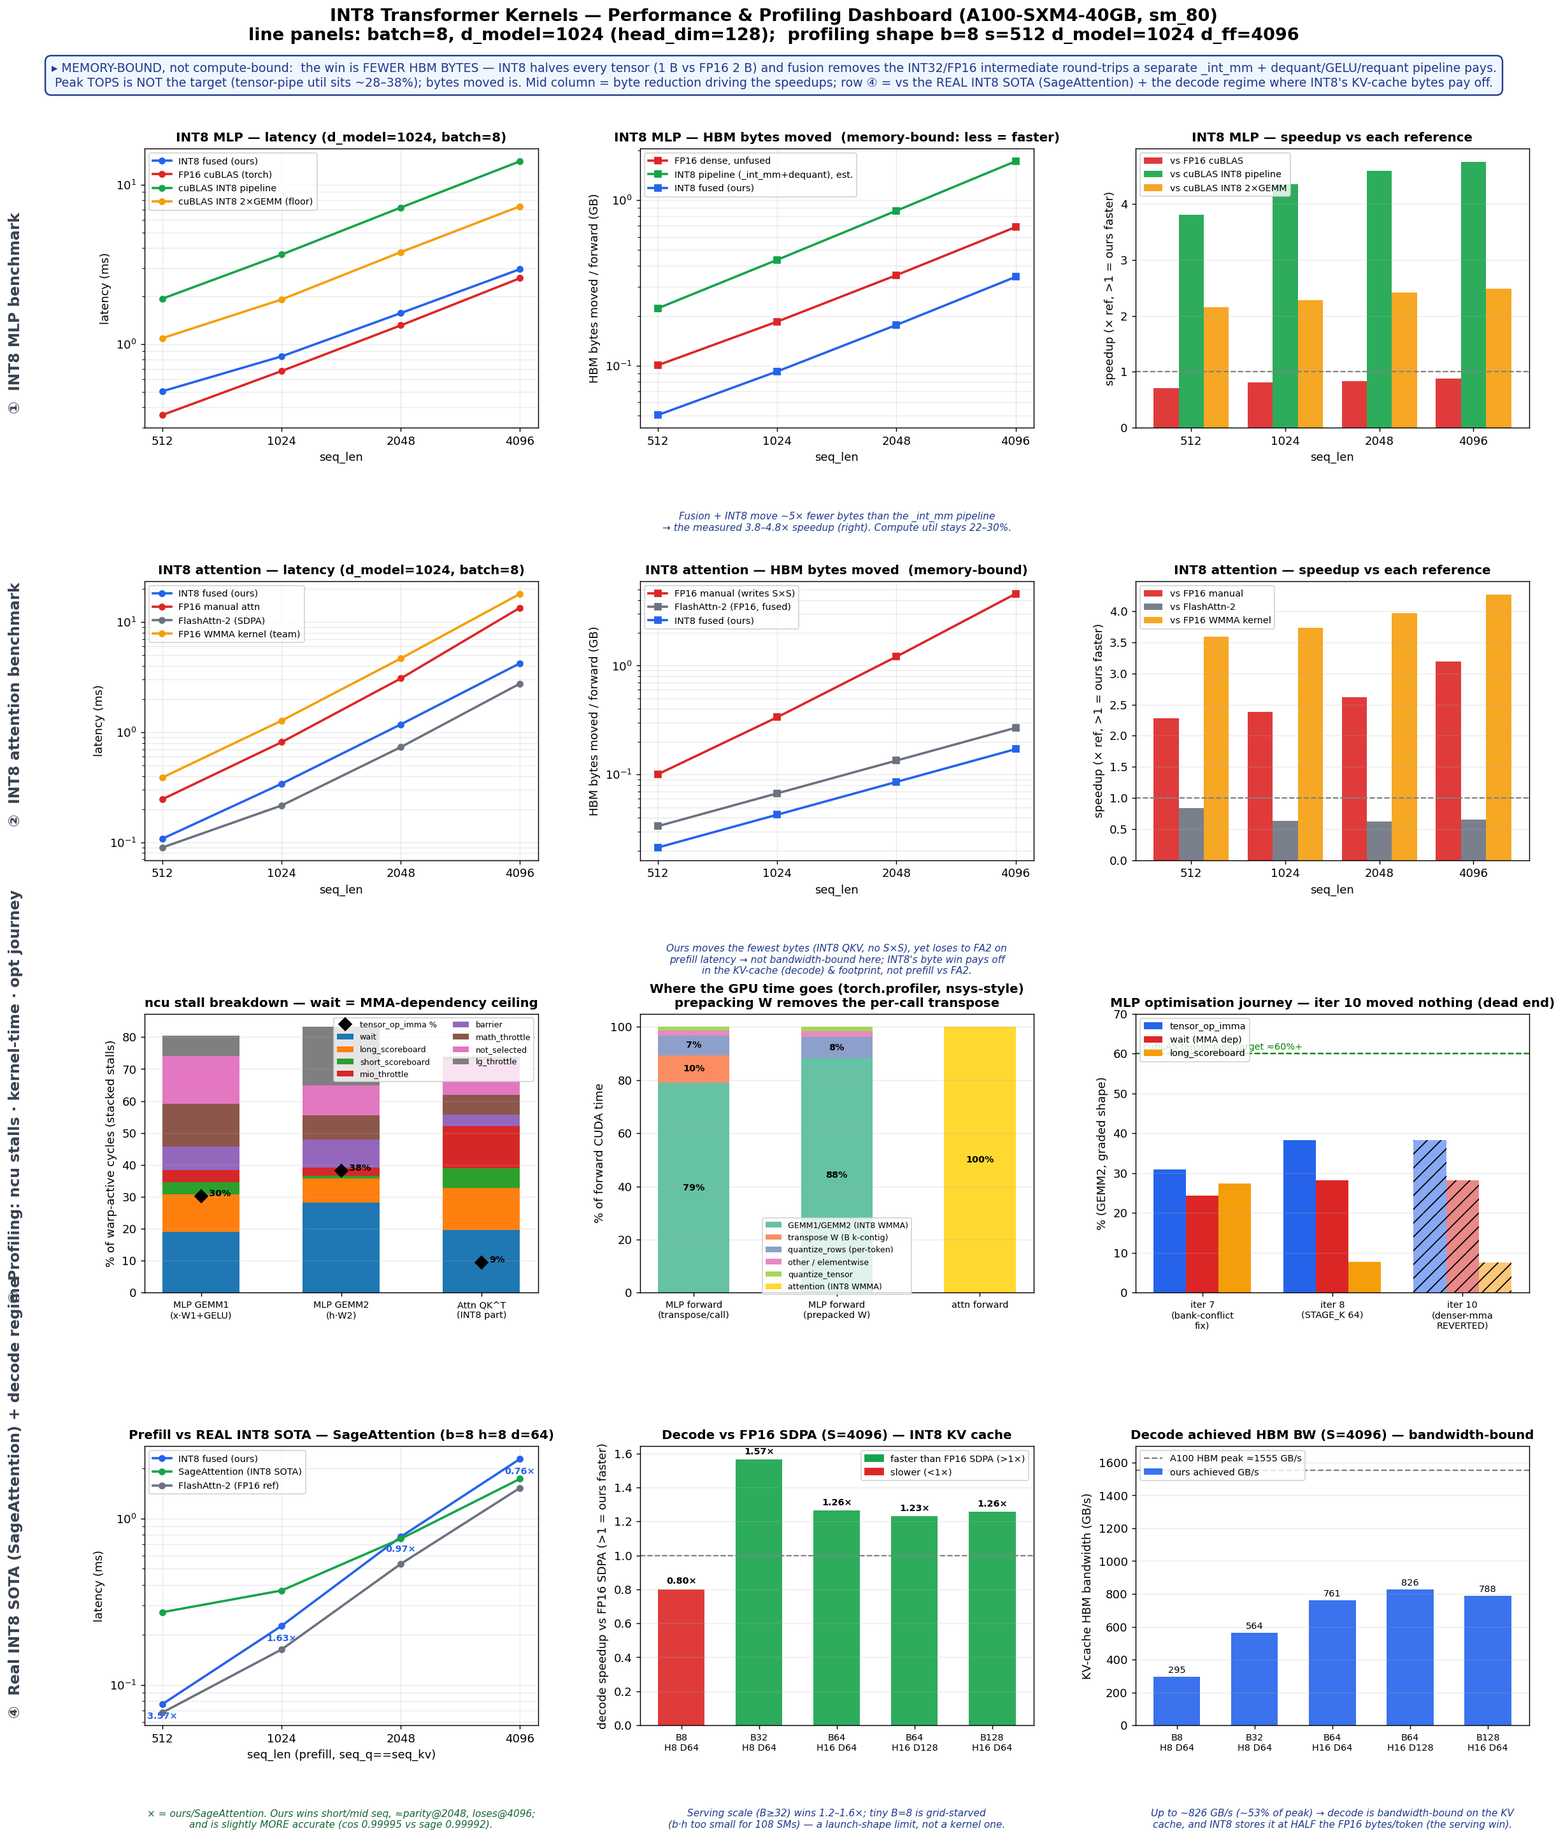
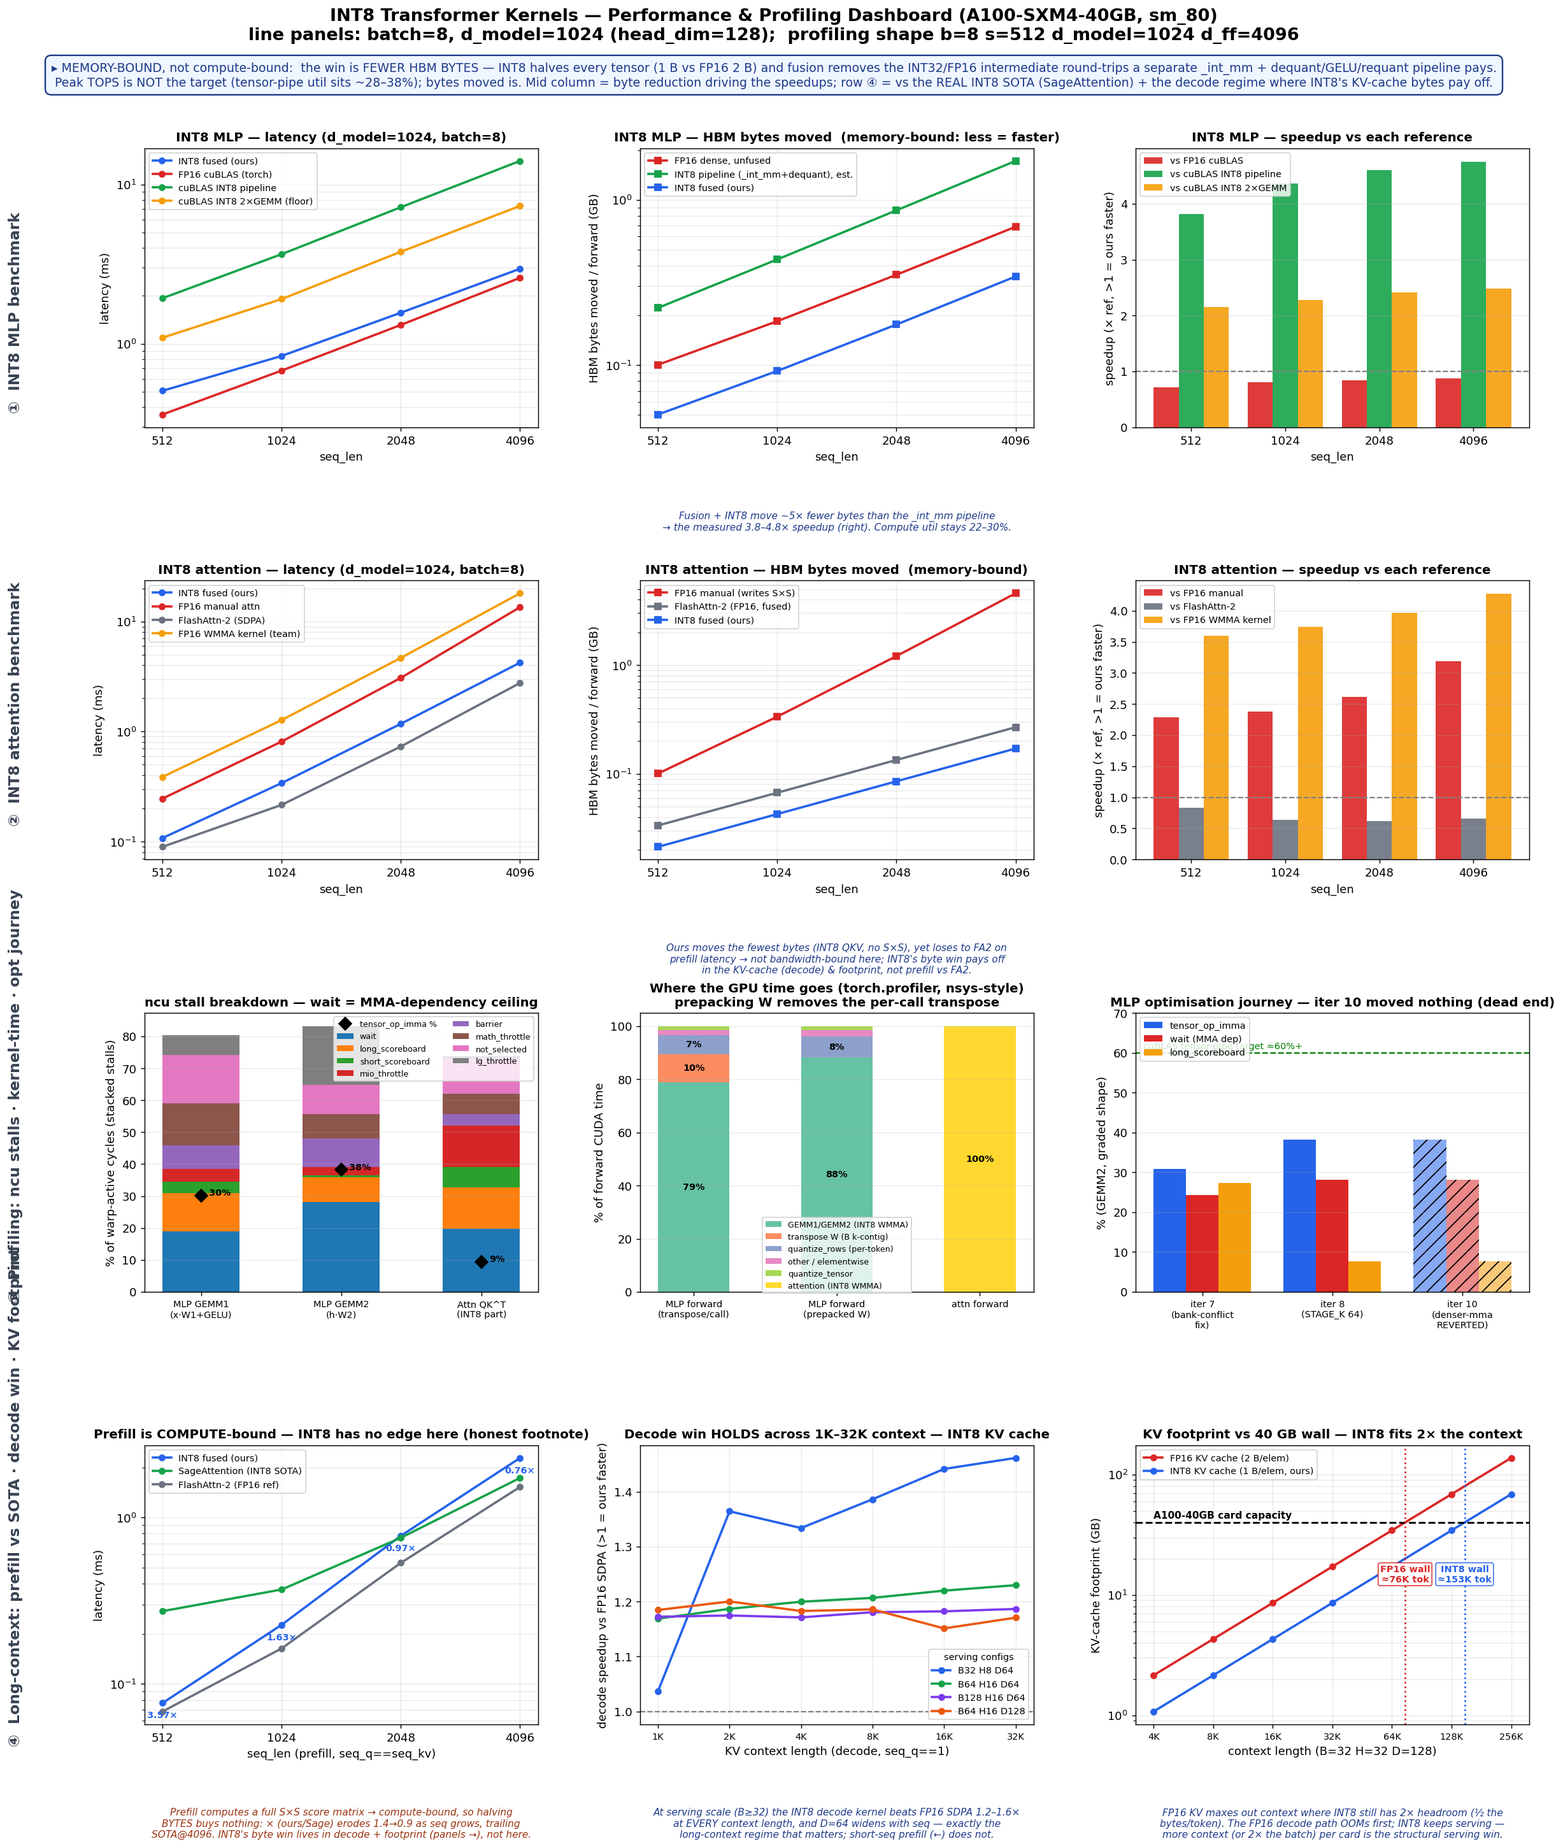
dashboard: reframe row 4 around the long-context story
Everything that matters today is long-sequence; short-seq prefill wins
are not the value prop. Reframe row 4 accordingly:

- bench_attn_decode.py: extend decode grid to 1K-32K and make run()
  OOM-safe (quantize-then-free fp16 inputs so the INT8 path runs where
  holding fp16 K,V would not even fit; FP16 reference rebuilt + guarded).
- panel_decode_speedup: bars@S=4096 -> one line per serving config across
  1K-32K, showing the 1.2-1.6x win HOLDS (D=64 widens) as context grows.
- panel_sota_prefill: retitled/refootnoted as the honest note that prefill
  is COMPUTE-bound, so INT8's byte advantage buys nothing there (ours/Sage
  erodes 1.4->0.9, trailing SOTA@4096).
- new panel_kv_footprint: KV cache GB vs context vs the 40 GB card wall —
  FP16 maxes ~76K tok, INT8 ~153K (half the bytes/token => 2x context or
  batch per card), turning the FP16 OOM into the structural serving win.

diff --git a/make_dashboard.py b/make_dashboard.py
@@ -314,7 +314,9 @@ def panel_journey(ax):
 
 
 def panel_sota_prefill(ax, rows):
-    """Prefill latency vs the REAL INT8 SOTA peer (SageAttention), not FP16."""
+    """Prefill latency vs the REAL INT8 SOTA peer (SageAttention) — the HONEST
+    footnote: prefill is compute-bound, so INT8's byte advantage does NOT help
+    here; we trail SOTA as seq grows. The INT8 win is decode/footprint (→)."""
     if not rows:
         ax.text(0.5, 0.5, "no attn_sota.csv\n(run bench_attn_sota.py)",
                 ha="center", va="center"); ax.set_axis_off(); return
@@ -336,74 +338,98 @@ def panel_sota_prefill(ax, rows):
     ax.set_xscale("log", base=2); ax.set_yscale("log", base=10)
     ax.set_xticks(x); ax.set_xticklabels(x)
     ax.set_xlabel("seq_len (prefill, seq_q==seq_kv)"); ax.set_ylabel("latency (ms)")
-    ax.set_title("Prefill vs REAL INT8 SOTA — SageAttention (b=8 h=8 d=64)",
+    ax.set_title("Prefill is COMPUTE-bound — INT8 has no edge here (honest footnote)",
                  fontweight="bold", fontsize=11)
     ax.grid(True, which="both", alpha=0.25); ax.legend(fontsize=8, loc="upper left")
     ax.text(0.5, -0.30,
-            "× = ours/SageAttention. Ours wins short/mid seq, ≈parity@2048, "
-            "loses@4096;\nand is slightly MORE accurate (cos 0.99995 vs sage 0.99992).",
+            "Prefill computes a full S×S score matrix → compute-bound, so halving\n"
+            "BYTES buys nothing: × (ours/Sage) erodes 1.4→0.9 as seq grows, trailing\n"
+            "SOTA@4096. INT8's byte win lives in decode + footprint (panels →), not here.",
             transform=ax.transAxes, fontsize=8.5, ha="center", va="top",
-            color="#166534", style="italic")
+            color="#9A3412", style="italic")
 
 
-def _decode_at(rows, S):
-    sub = [r for r in rows if int(r["S"]) == S]
-    sub.sort(key=lambda r: (int(r["B"]), int(r["H"]), int(r["D"])))
-    return sub
+# serving-scale decode configs (skip grid-starved B8); one line per config.
+DECODE_CFGS = [(32, 8, 64), (64, 16, 64), (128, 16, 64), (64, 16, 128)]
+_DECODE_COLORS = ["#2563EB", "#16A34A", "#7C3AED", "#EA580C"]
 
 
-def _cfg_label(r):
-    return f"B{int(r['B'])}\nH{int(r['H'])} D{int(r['D'])}"
-
-
-def panel_decode_speedup(ax, rows, S):
+def panel_decode_speedup(ax, rows):
+    """Decode speedup vs FP16 SDPA across the long-context grid (1K–32K), one
+    line per serving config — the win HOLDS (D=64 even grows) as context grows,
+    because decode re-streams the whole KV cache every token (bandwidth-bound)."""
     if not rows:
         ax.text(0.5, 0.5, "no attn_decode.csv\n(run bench_attn_decode.py)",
                 ha="center", va="center"); ax.set_axis_off(); return
-    sub = _decode_at(rows, S)
-    x = np.arange(len(sub))
-    y = [r["speedup_vs_sdpa"] for r in sub]
-    colors = [C_SOTA if v >= 1.0 else C_FP16 for v in y]
-    ax.bar(x, y, 0.6, color=colors, alpha=0.9)
-    for xi, v in zip(x, y):
-        ax.text(xi, v + 0.02, f"{v:.2f}×", ha="center", va="bottom",
-                fontsize=8, fontweight="bold")
+    for (B, H, D), color in zip(DECODE_CFGS, _DECODE_COLORS):
+        sub = [r for r in rows if int(r["B"]) == B and int(r["H"]) == H
+               and int(r["D"]) == D and isinstance(r.get("speedup_vs_sdpa"), float)]
+        sub.sort(key=lambda r: int(r["S"]))
+        if not sub:
+            continue
+        x = [int(r["S"]) for r in sub]
+        y = [r["speedup_vs_sdpa"] for r in sub]
+        ax.plot(x, y, marker="o", color=color, lw=2, ms=5,
+                label=f"B{B} H{H} D{D}")
     ax.axhline(1.0, color="gray", ls="--", lw=1.2)
-    ax.set_xticks(x); ax.set_xticklabels([_cfg_label(r) for r in sub], fontsize=8)
+    ax.set_xscale("log", base=2)
+    allx = sorted({int(r["S"]) for r in rows})
+    ax.set_xticks(allx); ax.set_xticklabels([f"{s//1024}K" if s >= 1024 else s for s in allx],
+                                            fontsize=8)
+    ax.set_xlabel("KV context length (decode, seq_q==1)")
     ax.set_ylabel("decode speedup vs FP16 SDPA (>1 = ours faster)")
-    ax.set_title(f"Decode vs FP16 SDPA (S={S}) — INT8 KV cache",
+    ax.set_title("Decode win HOLDS across 1K–32K context — INT8 KV cache",
                  fontweight="bold", fontsize=11)
-    ax.legend(handles=[Patch(color=C_SOTA, label="faster than FP16 SDPA (>1×)"),
-                       Patch(color=C_FP16, label="slower (<1×)")],
-              fontsize=8, loc="upper right")
-    ax.grid(axis="y", alpha=0.25)
+    ax.legend(fontsize=8, loc="lower right", title="serving configs", title_fontsize=8)
+    ax.grid(True, which="both", alpha=0.25)
     ax.text(0.5, -0.30,
-            "Serving scale (B≥32) wins 1.2–1.6×; tiny B=8 is grid-starved\n"
-            "(b·h too small for 108 SMs) — a launch-shape limit, not a kernel one.",
+            "At serving scale (B≥32) the INT8 decode kernel beats FP16 SDPA 1.2–1.6×\n"
+            "at EVERY context length, and D=64 widens with seq — exactly the\n"
+            "long-context regime that matters; short-seq prefill (←) does not.",
             transform=ax.transAxes, fontsize=8.5, ha="center", va="top",
             color="#1E3A8A", style="italic")
 
 
-def panel_decode_bw(ax, rows, S):
-    if not rows:
-        ax.text(0.5, 0.5, "no attn_decode.csv", ha="center", va="center")
-        ax.set_axis_off(); return
-    sub = _decode_at(rows, S)
-    x = np.arange(len(sub))
-    y = [r["ours_gbps"] for r in sub]
-    ax.bar(x, y, 0.6, color=C_OURS, alpha=0.9, label="ours achieved GB/s")
-    ax.axhline(1555, color="gray", ls="--", lw=1.3, label="A100 HBM peak ≈1555 GB/s")
-    for xi, v in zip(x, y):
-        ax.text(xi, v + 12, f"{v:.0f}", ha="center", va="bottom", fontsize=8)
-    ax.set_xticks(x); ax.set_xticklabels([_cfg_label(r) for r in sub], fontsize=8)
-    ax.set_ylabel("KV-cache HBM bandwidth (GB/s)")
-    ax.set_ylim(0, 1700)
-    ax.set_title(f"Decode achieved HBM BW (S={S}) — bandwidth-bound",
+# KV-footprint config: a 7–13B-class model shard at serving batch. The point is
+# structural (½ the bytes/token ⇒ 2× context per card), independent of the kernel.
+KV_B, KV_H, KV_D = 32, 32, 128
+CARD_GB = 40.0
+
+
+def panel_kv_footprint(ax):
+    """KV-cache footprint vs context length, INT8 vs FP16, against the 40 GB
+    card wall. Half the bytes/token ⇒ INT8 fits ~2× the context (or batch) — the
+    OOM the FP16 decode path hits at long context turns into a capacity win."""
+    seqs = [2 ** k for k in range(12, 19)]            # 4K .. 256K
+    per_tok = 2 * KV_B * KV_H * KV_D / 1e9            # K+V, GB per token per byte/elem
+    fp16 = [per_tok * 2 * S for S in seqs]
+    int8 = [per_tok * 1 * S for S in seqs]
+    ax.plot(seqs, fp16, marker="o", color=C_FP16, lw=2, ms=5,
+            label="FP16 KV cache (2 B/elem)")
+    ax.plot(seqs, int8, marker="o", color=C_OURS, lw=2, ms=5,
+            label="INT8 KV cache (1 B/elem, ours)")
+    ax.axhline(CARD_GB, color="black", ls="--", lw=1.6)
+    ax.text(seqs[0], CARD_GB * 1.08, "A100-40GB card capacity",
+            fontsize=8.5, color="black", fontweight="bold")
+    max_fp16 = CARD_GB / (per_tok * 2)               # tokens that fit
+    max_int8 = CARD_GB / (per_tok * 1)
+    for xv, col, tag in [(max_fp16, C_FP16, f"FP16 wall\n≈{max_fp16/1000:.0f}K tok"),
+                         (max_int8, C_OURS, f"INT8 wall\n≈{max_int8/1000:.0f}K tok")]:
+        ax.axvline(xv, color=col, ls=":", lw=1.5)
+        ax.text(xv, CARD_GB * 0.32, tag, color=col, fontsize=8,
+                fontweight="bold", ha="center",
+                bbox=dict(boxstyle="round,pad=0.2", fc="white", ec=col, lw=0.8))
+    ax.set_xscale("log", base=2); ax.set_yscale("log", base=10)
+    ax.set_xticks(seqs); ax.set_xticklabels([f"{s//1024}K" for s in seqs], fontsize=8)
+    ax.set_xlabel(f"context length (B={KV_B} H={KV_H} D={KV_D})")
+    ax.set_ylabel("KV-cache footprint (GB)")
+    ax.set_title("KV footprint vs 40 GB wall — INT8 fits 2× the context",
                  fontweight="bold", fontsize=11)
-    ax.legend(fontsize=8, loc="upper left"); ax.grid(axis="y", alpha=0.25)
+    ax.legend(fontsize=8, loc="upper left"); ax.grid(True, which="both", alpha=0.25)
     ax.text(0.5, -0.30,
-            "Up to ~826 GB/s (~53% of peak) → decode is bandwidth-bound on the KV\n"
-            "cache, and INT8 stores it at HALF the FP16 bytes/token (the serving win).",
+            "FP16 KV maxes out context where INT8 still has 2× headroom (½ the\n"
+            "bytes/token). The FP16 decode path OOMs first; INT8 keeps serving —\n"
+            "more context (or 2× the batch) per card is the structural serving win.",
             transform=ax.transAxes, fontsize=8.5, ha="center", va="top",
             color="#1E3A8A", style="italic")
 
@@ -466,10 +492,11 @@ def main():
     panel_kerneltime(fig.add_subplot(gs[2, 1]))
     panel_journey(fig.add_subplot(gs[2, 2]))
 
-    # Row 4 — REAL INT8 SOTA (SageAttention) + decode regime
+    # Row 4 — the long-context story: prefill (compute-bound, honest footnote) →
+    # decode win holds across 1K–32K → KV footprint vs the 40 GB card wall.
     panel_sota_prefill(fig.add_subplot(gs[3, 0]), sota)
-    panel_decode_speedup(fig.add_subplot(gs[3, 1]), decode, 4096)
-    panel_decode_bw(fig.add_subplot(gs[3, 2]), decode, 4096)
+    panel_decode_speedup(fig.add_subplot(gs[3, 1]), decode)
+    panel_kv_footprint(fig.add_subplot(gs[3, 2]))
 
     fig.suptitle("INT8 Transformer Kernels — Performance & Profiling Dashboard "
                  "(A100-SXM4-40GB, sm_80)\n"
@@ -491,7 +518,7 @@ def main():
     for y, txt in [(0.815, "①  INT8 MLP benchmark"),
                    (0.600, "②  INT8 attention benchmark"),
                    (0.385, "③  Profiling: ncu stalls · kernel-time · opt journey"),
-                   (0.165, "④  Real INT8 SOTA (SageAttention) + decode regime")]:
+                   (0.165, "④  Long-context: prefill vs SOTA · decode win · KV footprint")]:
         fig.text(0.018, y, txt, fontsize=13, fontweight="bold", color="#374151",
                  rotation=90, va="center", ha="center")
 

diff --git a/bench_attn_decode.py b/bench_attn_decode.py
@@ -32,7 +32,11 @@ CSV_OUT = os.path.join(os.path.dirname(os.path.abspath(__file__)),
 # (batch, heads, head_dim) — small to serving-scale; one warp per (b,h), so
 # batch*heads is the parallelism (small b*h is grid-starved on 108 SMs).
 CONFIGS = [(8, 8, 64), (32, 8, 64), (64, 16, 64), (128, 16, 64), (64, 16, 128)]
-SEQS = [1024, 2048, 4096]
+# Long-context grid: decode re-reads the WHOLE KV cache per token, so this is
+# the regime that matters today. The FP16 SDPA reference OOMs at the largest
+# (config, seq) on a 40 GB card — that is itself the point (INT8 KV = half the
+# bytes), and those rows are skipped gracefully.
+SEQS = [1024, 2048, 4096, 8192, 16384, 32768]
 
 
 def _load():
@@ -49,28 +53,52 @@ def _qpt(t):
 
 
 def run(ext, B, H, D, S):
-    torch.manual_seed(0)
-    Q = torch.randn(B, H, D, device="cuda", dtype=torch.float16)
-    K = torch.randn(B, H, S, D, device="cuda", dtype=torch.float16)
-    V = torch.randn(B, H, S, D, device="cuda", dtype=torch.float16)
-    Qi, sQ = _qpt(Q); Ki, sK = _qpt(K); Vi, sV = _qpt(V)
-
-    ours_ms = benchmark(ext.int8_decode_attention_forward, Qi, Ki, Vi, sQ, sK, sV)
-
-    Q4 = Q.unsqueeze(2)  # (B,H,1,D) for SDPA decode
-    sdpa_ms = benchmark(F.scaled_dot_product_attention, Q4, K, V)
-
-    # accuracy vs fp32 ground truth on the original inputs
-    out = ext.int8_decode_attention_forward(Qi, Ki, Vi, sQ, sK, sV)
-    ref = F.scaled_dot_product_attention(Q.float().unsqueeze(2), K.float(), V.float()).squeeze(2)
-    cos = F.cosine_similarity(out.float().flatten(), ref.flatten(), dim=0).item()
-
+    """OOM-safe. Footprint is analytical (always); the FP16 SDPA reference and
+    the fp32 accuracy ref are each guarded — at the largest (config, seq) the
+    FP16 path OOMs on 40 GB while the INT8 path still runs (that contrast is the
+    point), so sdpa_ms/cos come back empty and the row is INT8-only."""
+    OOM = torch.cuda.OutOfMemoryError
     kv_int8_mb = B * H * S * D * 2 / 1e6        # K+V, 1 byte each
     kv_fp16_mb = kv_int8_mb * 2
-    # bytes our kernel streams from the KV cache per decode step (≈ the whole cache)
-    ours_gbps = (B * H * S * D * 2) / (ours_ms * 1e-3) / 1e9
-    return dict(B=B, H=H, D=D, S=S, ours_ms=ours_ms, sdpa_ms=sdpa_ms, cos=cos,
-                kv_int8_mb=kv_int8_mb, kv_fp16_mb=kv_fp16_mb, ours_gbps=ours_gbps)
+    row = dict(B=B, H=H, D=D, S=S, ours_ms="", sdpa_ms="", cos="",
+               kv_int8_mb=kv_int8_mb, kv_fp16_mb=kv_fp16_mb, ours_gbps="")
+    torch.manual_seed(0)
+    # Build + quantize each tensor, then free its fp16 copy immediately. A real
+    # serving system stores the KV cache as int8 and never materializes fp16, so
+    # the INT8 path must run where holding fp16 K,V would not even fit. Only Q's
+    # fp16 is kept (tiny: seq_q==1) for the SDPA reference / accuracy check.
+    Q = torch.randn(B, H, D, device="cuda", dtype=torch.float16)
+    Qi, sQ = _qpt(Q)
+    K = torch.randn(B, H, S, D, device="cuda", dtype=torch.float16)
+    Ki, sK = _qpt(K); del K; torch.cuda.empty_cache()
+    V = torch.randn(B, H, S, D, device="cuda", dtype=torch.float16)
+    Vi, sV = _qpt(V); del V; torch.cuda.empty_cache()
+
+    ours_ms = benchmark(ext.int8_decode_attention_forward, Qi, Ki, Vi, sQ, sK, sV)
+    row["ours_ms"] = ours_ms
+    row["ours_gbps"] = (B * H * S * D * 2) / (ours_ms * 1e-3) / 1e9
+
+    out = ext.int8_decode_attention_forward(Qi, Ki, Vi, sQ, sK, sV)
+    # FP16 reference: rebuild K,V in fp16. At the largest (config, seq) this is
+    # where the FP16 KV cache does not fit on 40 GB — that OOM IS the result.
+    try:
+        torch.manual_seed(0)
+        _ = torch.randn(B, H, D, device="cuda", dtype=torch.float16)  # match RNG stream
+        K = torch.randn(B, H, S, D, device="cuda", dtype=torch.float16)
+        V = torch.randn(B, H, S, D, device="cuda", dtype=torch.float16)
+        Q4 = Q.unsqueeze(2)  # (B,H,1,D) for SDPA decode
+        row["sdpa_ms"] = benchmark(F.scaled_dot_product_attention, Q4, K, V)
+        try:
+            ref = F.scaled_dot_product_attention(
+                Q.float().unsqueeze(2), K.float(), V.float()).squeeze(2)
+        except OOM:
+            torch.cuda.empty_cache()
+            ref = F.scaled_dot_product_attention(Q.unsqueeze(2), K, V).squeeze(2).float()
+        row["cos"] = F.cosine_similarity(out.float().flatten(), ref.flatten(), dim=0).item()
+        del K, V
+    except OOM:
+        torch.cuda.empty_cache()  # FP16 reference does not fit — INT8-only row
+    return row
 
 
 def main():
@@ -85,10 +113,16 @@ def main():
     for (B, H, D) in CONFIGS:
         for S in SEQS:
             r = run(ext, B, H, D, S)
-            spd = r["sdpa_ms"] / r["ours_ms"]
-            print(f"{B:>4} {H:>3} {D:>4} {S:>5} | {r['ours_ms']:8.4f} {r['sdpa_ms']:8.4f} "
-                  f"{spd:8.2f}x | {r['cos']:8.5f} | {r['kv_int8_mb']:8.1f}M {r['kv_fp16_mb']:8.1f}M "
-                  f"{r['ours_gbps']:9.1f}")
+            if r["sdpa_ms"] == "":   # FP16 reference OOM'd — INT8-only row
+                spd = ""
+                print(f"{B:>4} {H:>3} {D:>4} {S:>5} | {r['ours_ms']:8.4f} {'OOM':>8} "
+                      f"{'--':>8}  | {'--':>8} | {r['kv_int8_mb']:8.1f}M {r['kv_fp16_mb']:8.1f}M "
+                      f"{r['ours_gbps']:9.1f}   <- FP16 KV does not fit on 40 GB")
+            else:
+                spd = r["sdpa_ms"] / r["ours_ms"]
+                print(f"{B:>4} {H:>3} {D:>4} {S:>5} | {r['ours_ms']:8.4f} {r['sdpa_ms']:8.4f} "
+                      f"{spd:8.2f}x | {r['cos']:8.5f} | {r['kv_int8_mb']:8.1f}M {r['kv_fp16_mb']:8.1f}M "
+                      f"{r['ours_gbps']:9.1f}")
             r["speedup_vs_sdpa"] = spd
             rows.append(r)
     with open(CSV_OUT, "w", newline="") as f:
